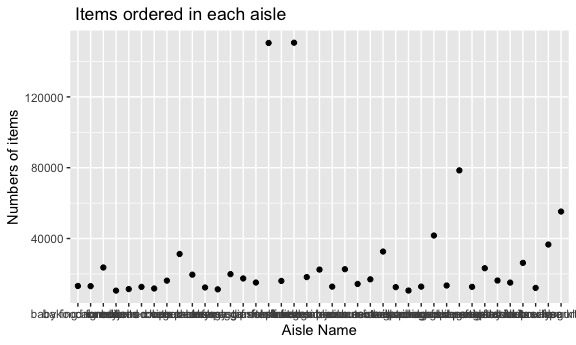
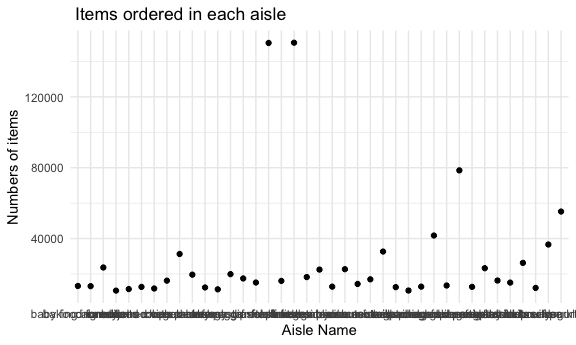
draw some plot about problem 2 data

diff --git a/p8105_hw3_ah4167.md b/p8105_hw3_ah4167.md
@@ -86,7 +86,8 @@ instacart|>
     title=" Items ordered in each aisle",
     x="Aisle Name",
     y="Numbers of items"
-  )
+  )+
+  theme_minimal()
 ```
 
 <img src="p8105_hw3_ah4167_files/figure-gfm/unnamed-chunk-6-1.png" width="90%" />
@@ -213,6 +214,7 @@ data("brfss_smart2010")
 First, do some data cleaning:
 
 ``` r
+brfss_clean_df=
 brfss_smart2010|>
   janitor::clean_names()|>#format the data to use appropriate variable names
   filter(
@@ -225,26 +227,62 @@ brfss_smart2010|>
       levels = c("Poor", "Fair", "Good", "Very Good", "Excellent"), 
       ordered = TRUE
     )#organize responses as a factor taking levels ordered from “Poor” to “Excellent”
+  )|>
+  separate(locationdesc, into = c("state", "location"),sep=" - ")|>
+  select(year,state,location,class,topic,question,response,sample_size,data_value,geo_location)
+```
+
+Then we can calculate information below:
+
+In 2002, the states observed at 7 or more locations are CT, FL, MA, NC,
+NJ, PA. In 2010, the states observed at 7 or more locations are CA, CO,
+FL, MA, MD, NC, NE, NJ, NY, OH, PA, SC, TX, WA.
+
+Furthermore, we construct a dataset that is limited to Excellent
+responses, and contains, year, state, and a variable that averages the
+data_value across locations within a state. Make a “spaghetti” plot of
+this average value over time within a state.
+
+``` r
+#Construct a dataset that is limited to Excellent responses, and contains, year, state, and a variable that averages the data_value across locations within a state. 
+brfss_clean_df|>
+  filter(response=="Excellent")|>
+  group_by(state,year)|>
+  summarize(avg_data_value=mean(data_value,na.rm=TRUE))|>
+#Make a “spaghetti” plot of this average value over time within a state
+  ggplot(aes(x = year, y = avg_data_value, color = state, group = state)) +
+  geom_line() +
+  labs(title = "Spaghetti Plot of Average Value Over Time Within a State",
+       x = "Year",
+       y = "Average Value",
+       color = "State") +
+  theme_minimal()
+```
+
+    ## `summarise()` has grouped output by 'state'. You can override using the
+    ## `.groups` argument.
+
+<img src="p8105_hw3_ah4167_files/figure-gfm/unnamed-chunk-13-1.png" width="90%" />
+
+–interpretation to be completed：We can see from the plot that
+
+Make a two-panel plot showing, for the years 2006, and 2010,
+distribution of data_value for responses (“Poor” to “Excellent”) among
+locations in NY State.
+
+``` r
+brfss_clean_df|>
+  filter(year%in%c(2006,2010)&state=="NY")|>
+  ggplot(aes(x=response,y=data_value))+
+  geom_boxplot()+
+  facet_wrap(~year)+
+  labs(
+    title="Distribution of Data Value by Response in NY State",
+    x = "Response",
+    y = "Data Value"
   )
 ```
 
-    ## # A tibble: 8,500 × 23
-    ##     year locationabbr locationdesc     class topic question response sample_size
-    ##    <int> <chr>        <chr>            <chr> <chr> <chr>    <ord>          <int>
-    ##  1  2010 AL           AL - Jefferson … Heal… Over… How is … Excelle…          94
-    ##  2  2010 AL           AL - Jefferson … Heal… Over… How is … Good             208
-    ##  3  2010 AL           AL - Jefferson … Heal… Over… How is … Fair             107
-    ##  4  2010 AL           AL - Jefferson … Heal… Over… How is … Poor              45
-    ##  5  2010 AL           AL - Mobile Cou… Heal… Over… How is … Excelle…          91
-    ##  6  2010 AL           AL - Mobile Cou… Heal… Over… How is … Good             224
-    ##  7  2010 AL           AL - Mobile Cou… Heal… Over… How is … Fair             120
-    ##  8  2010 AL           AL - Mobile Cou… Heal… Over… How is … Poor              66
-    ##  9  2010 AL           AL - Tuscaloosa… Heal… Over… How is … Excelle…          58
-    ## 10  2010 AL           AL - Tuscaloosa… Heal… Over… How is … Good             171
-    ## # ℹ 8,490 more rows
-    ## # ℹ 15 more variables: data_value <dbl>, confidence_limit_low <dbl>,
-    ## #   confidence_limit_high <dbl>, display_order <int>, data_value_unit <chr>,
-    ## #   data_value_type <chr>, data_value_footnote_symbol <chr>,
-    ## #   data_value_footnote <chr>, data_source <chr>, class_id <chr>,
-    ## #   topic_id <chr>, location_id <chr>, question_id <chr>, respid <chr>,
-    ## #   geo_location <chr>
+<img src="p8105_hw3_ah4167_files/figure-gfm/unnamed-chunk-14-1.png" width="90%" />
+
+–interpretation to be completed：We can see from the plot that
